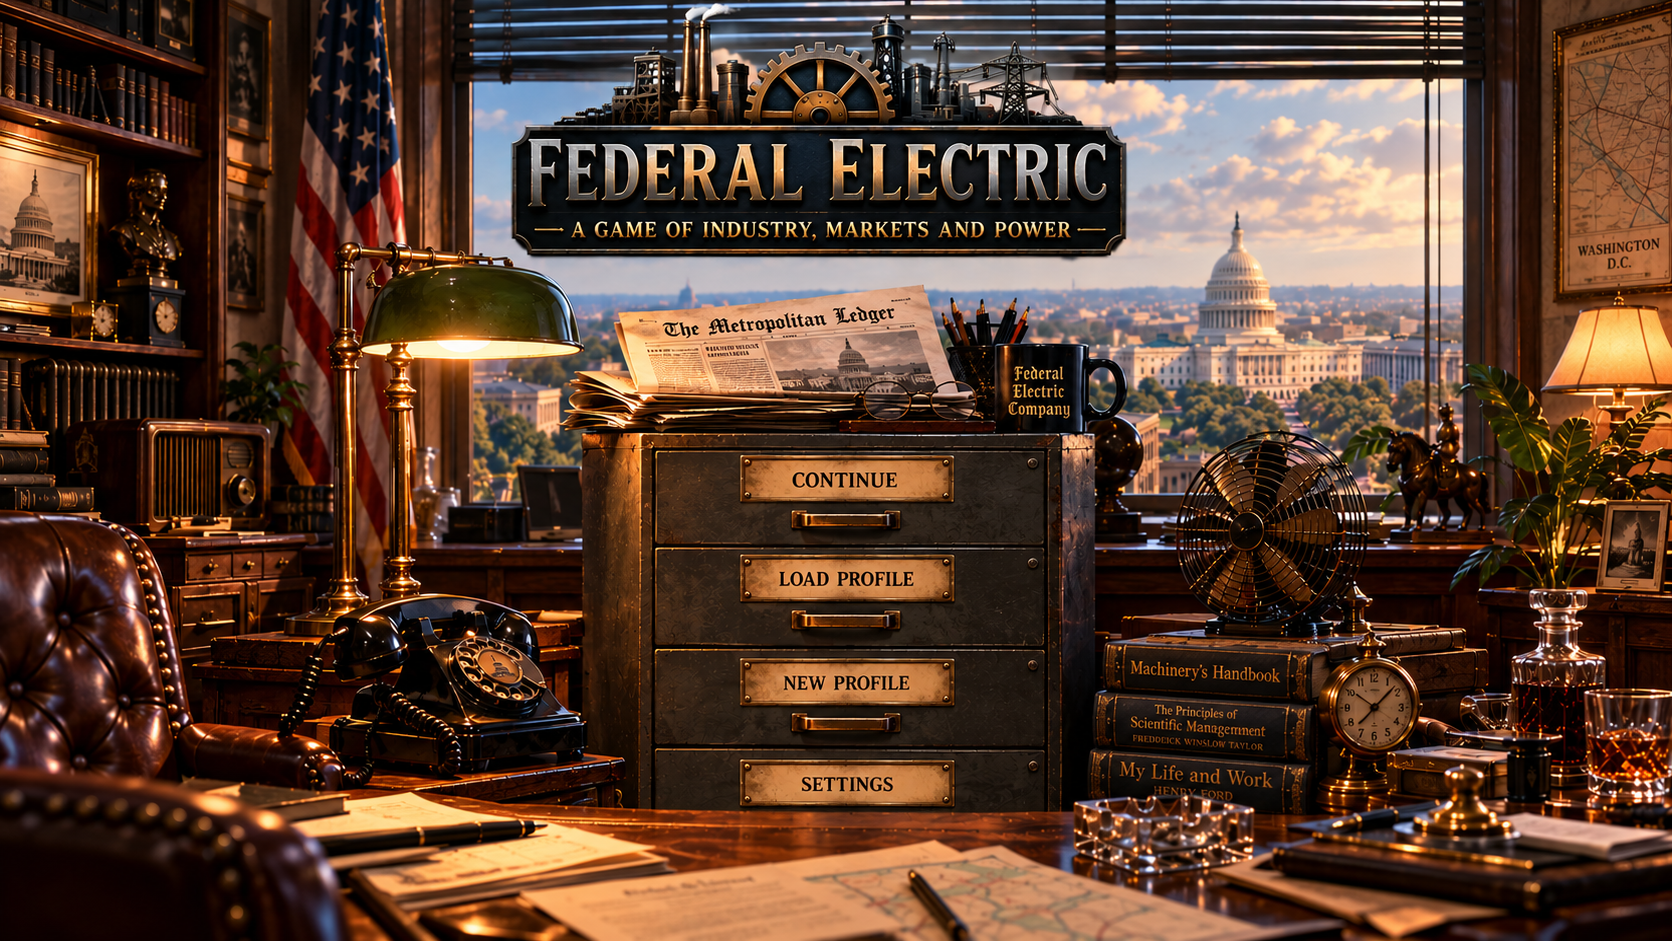
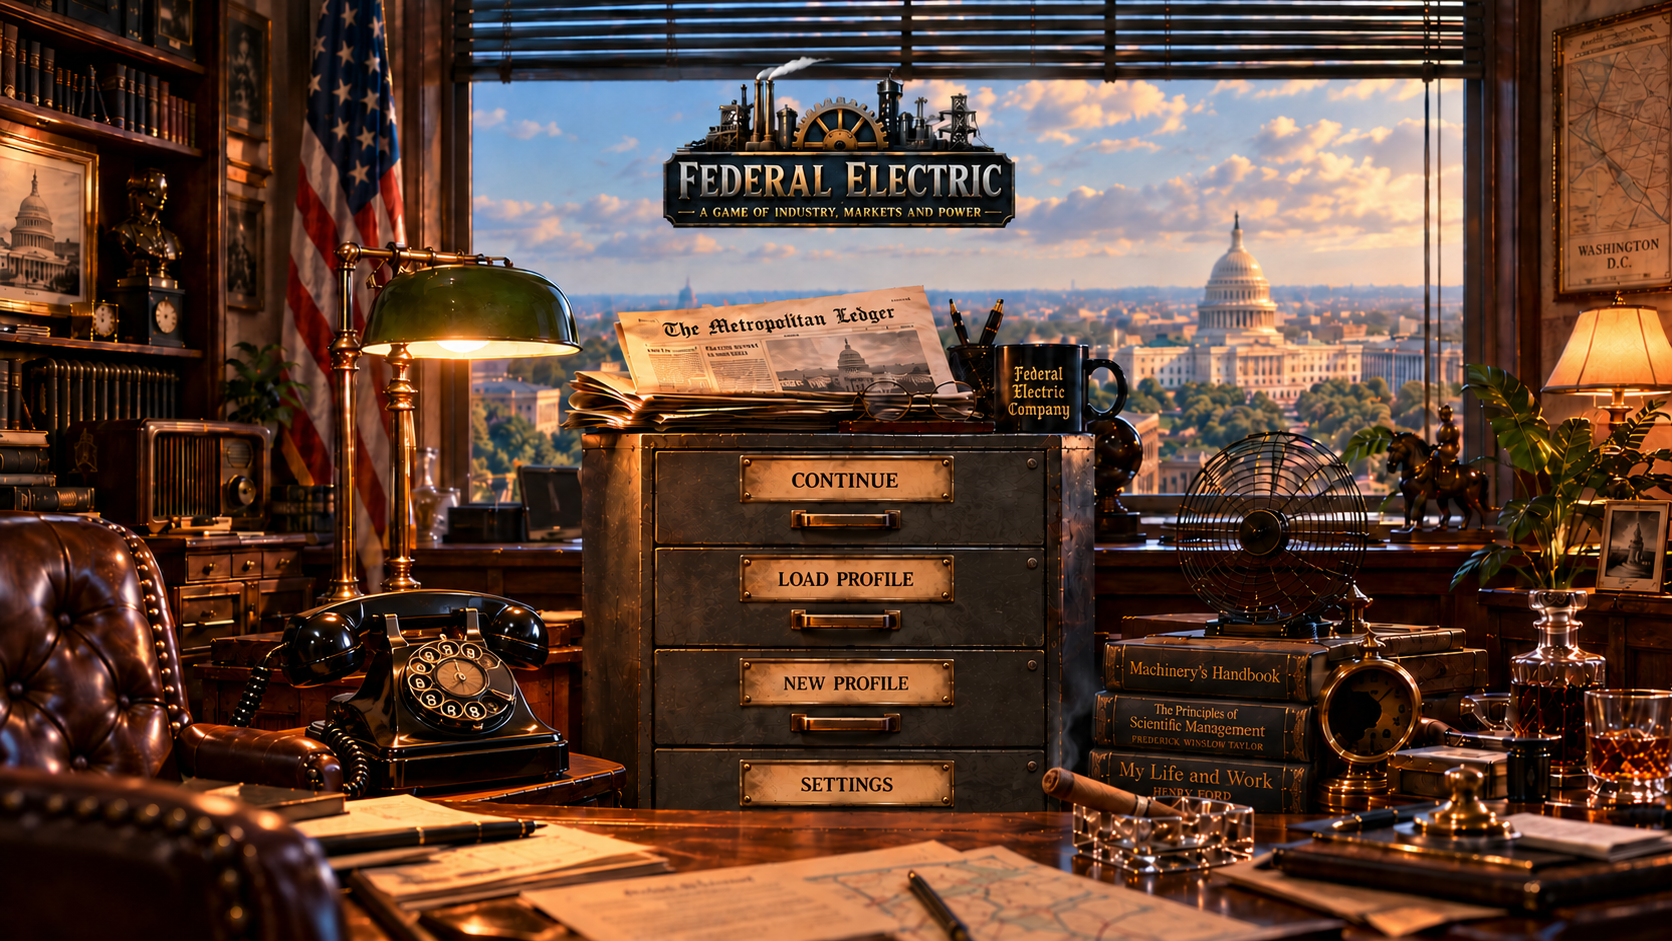
Replace title screen with approved office artwork

diff --git a/index.html b/index.html
@@ -2,7 +2,7 @@
 <html lang="en"><head><meta charset="utf-8"><meta name="viewport" content="width=device-width,initial-scale=1"><title>Federal Electric</title><link rel="stylesheet" href="styles.css?v=20261003-clock1"><link rel="stylesheet" href="racing.css?v=20261002-multilap1"><link rel="stylesheet" href="boxing.css?v=20261002-fightworld3"><link rel="stylesheet" href="underworld.css?v=20261002-liveunderground1"></head>
 <body><div id="titleScreen" class="title-screen" aria-label="Federal Electric title screen">
   <div class="title-screen-frame">
-    <img class="title-screen-art" src="assets/federal-electric-title-screen.png?v=20261003-title2" alt="Federal Electric — A Game of Industry, Markets, and Power">
+    <img class="title-screen-art" src="assets/federal-electric-title-screen.png?v=20261003-title3" alt="Federal Electric — A Game of Industry, Markets, and Power">
     <div class="title-fan-motion" aria-hidden="true"></div>
 
     <div class="title-clock-live" aria-hidden="true">
